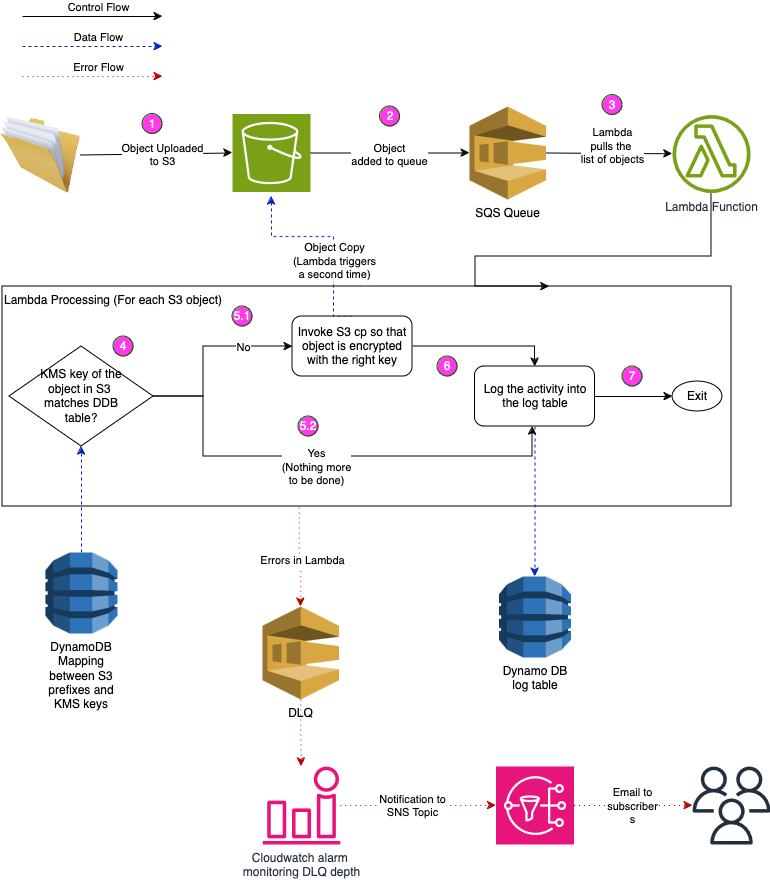
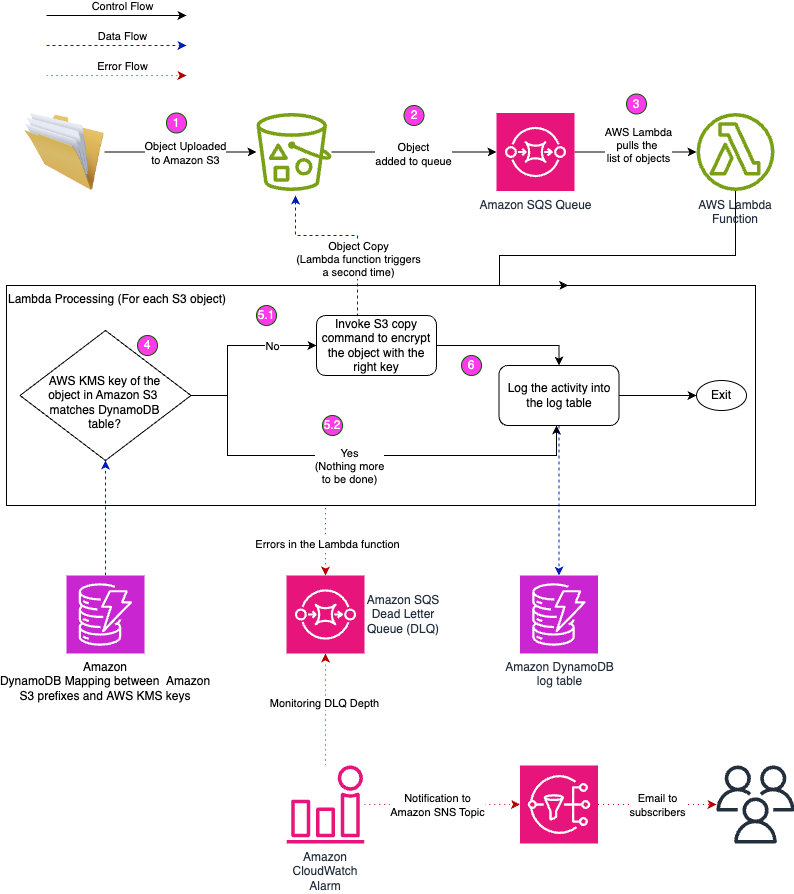
Added changes for blog post publication.

diff --git a/README.md b/README.md
@@ -392,7 +392,7 @@ There are some caveats to keep in mind with this solution.
     * Server-side encryption with AWS KMS ([SSE-KMS](https://docs.aws.amazon.com/AmazonS3/latest/userguide/UsingKMSEncryption.html))
     * Dual-layer server-side encryption with AWS KMS keys ([DSSE-KMS](https://docs.aws.amazon.com/AmazonS3/latest/userguide/UsingDSSEncryption.html))
 
-* This solution uses S3 event notifications, which are asynchronous. Thus the Lambda function that "corrects" the KMS key will run only *after* a short duration of time from when the object was uploaded. For this period between the upload and this lambda getting triggered, the KMS key would not be enforced (as it would just retain the encryption it had on upload). If your requirement is that the file *never* has the wrong encryption, then this solution will not meet your needs. You might then want to consider enforcing the correct key using the IAM condition keys like [`s3:x-amz-server-side-encryption-aws-kms-key-id` and `s3:x-amz-server-side-encryption`](https://docs.aws.amazon.com/AmazonS3/latest/userguide/list_amazons3.html#amazons3-s3_x-amz-server-side-encryption-aws-kms-key-id). This solution documented here is useful for situations where there are many applications or users accessing a bucket and rather than causing those applications to fail for using the wrong KMS keys (by using IAM condition keys), you want to enforce them asynchronously.
+* This solution uses S3 event notifications, which are asynchronous. Thus the Lambda function that "corrects" the KMS key will run only *after* a short duration of time from when the object was uploaded. For this period between the upload and this lambda getting triggered, the KMS key would not be enforced (as it would just retain the encryption it had on upload). If your requirement is that the file *never* has the wrong encryption, then this solution will not meet your needs. You might then want to consider enforcing the correct key using the IAM condition keys like [`s3:x-amz-server-side-encryption-aws-kms-key-id` and `s3:x-amz-server-side-encryption`](https://docs.aws.amazon.com/AmazonS3/latest/userguide/list_amazons3.html#amazons3-s3_x-amz-server-side-encryption-aws-kms-key-id). This solution documented here is useful for situations where there are many applications or users accessing a bucket and rather than causing those applications to fail for using the wrong KMS keys (by using IAM condition keys), you want to enforce them asynchronously. To avoid other users or applications from accessing the file during this small duration, you can use a customer managed AWS KMS key as the [default bucket key](https://docs.aws.amazon.com/AmazonS3/latest/userguide/default-bucket-encryption.html) and ensure that no user/application has access to decrypt with this key except for the role assumed by the Lambda function in this solution.
 
 * Since this solution uses S3 event notifications, if the bucket already has S3 event notifications set up for the calls that create new objects, then this solution will not work because there can be only one notification configuration for each API call. In this case, the architecture will have to be modified so that the bucket publishes events to an SNS topic to which your exising target of event notifications subscribes and this sollution's SQS queue too can subscribe to the same topic.
 
